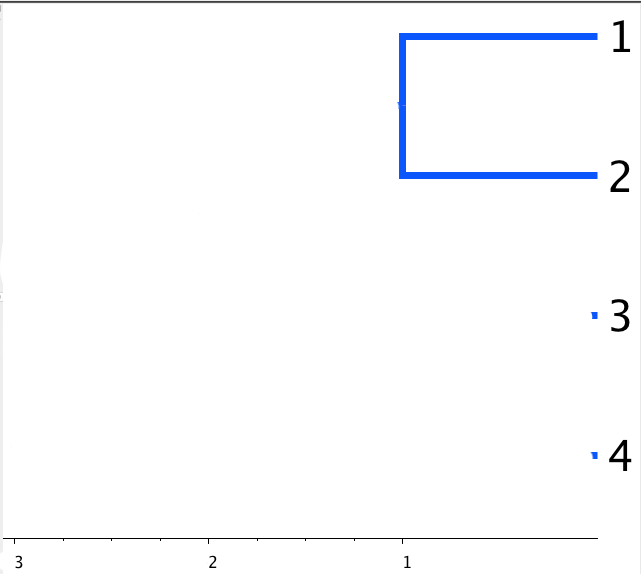
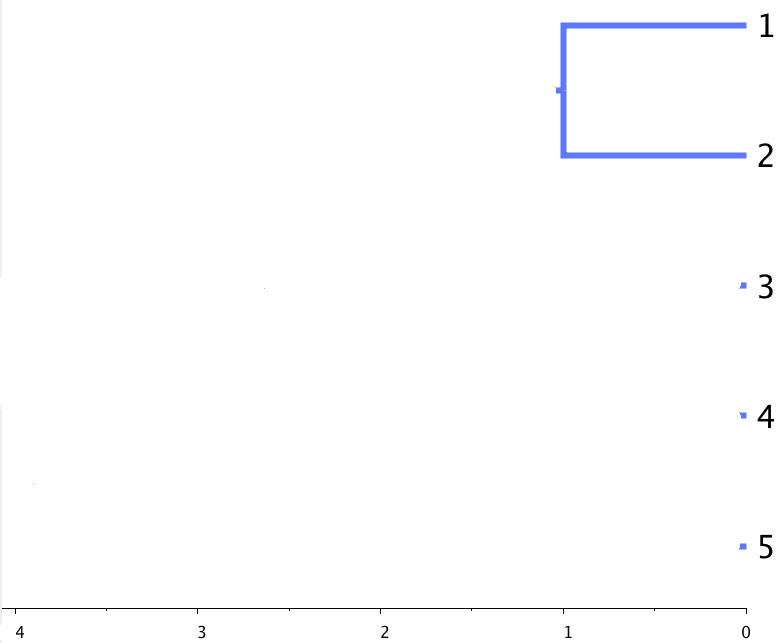
improve example Akaroa

diff --git a/Akaroa2021/index.html b/Akaroa2021/index.html
@@ -39,6 +39,110 @@
 				<p>Akaroa 2021</p>
 				</section>
 
+
+<section data-transition="none"><h4>Matrix => tree by single linke clustering</h4>
+<table><tr><td style="vertical-align: top;">
+<table>
+<tr style="border-bottom: 1px solid black;"><td></td><td class="label"> 1 </td><td class="label"> 2 </td><td class="label"> 3 </td><td class="label"> 4 </td><td class="label"> 5 </td></tr>
+<tr><td class="label">1</td><td> - </td><td> 2 </td><td> 7 </td><td> x </td><td> x </td></tr>
+<tr><td class="label">2</td><td> 2 </td><td> - </td><td> 6 </td><td> x </td><td> x </td></tr>
+<tr><td class="label">3</td><td> 5 </td><td> 6 </td><td> - </td><td> 8 </td><td> x </td></tr>
+<tr><td class="label">4</td><td> x </td><td> x </td><td> 8 </td><td> - </td><td> 2 </td></tr>
+<tr><td class="label">5</td><td> x </td><td> x </td><td> x </td><td> 2 </td><td> - </td></tr>
+</table>
+</td><td style="vertical-align: top;">
+<img src="figures/slink/x0.png" width="450"/>
+</td>	
+</table>
+<p style="font-size:20pt">Repeat: find minimum in matrix, connect associated clades (if not already connected)
+</section>
+
+<section data-transition="none"><h4>Matrix => tree by single linke clustering</h4>
+<table><tr><td style="vertical-align: top;">
+<table>
+<tr style="border-bottom: 1px solid black;"><td></td><td class="label"> 1 </td><td class="label"> 2 </td><td class="label"> 3 </td><td class="label"> 4 </td><td class="label"> 5 </td></tr>
+<tr><td class="label">1</td><td> - </td><td> <b>2</b> </td><td> 7 </td><td> x </td><td> x </td></tr>
+<tr><td class="label">2</td><td> . </td><td> - </td><td> 6 </td><td> x </td><td> x </td></tr>
+<tr><td class="label">3</td><td> . </td><td> . </td><td> - </td><td> 8 </td><td> x </td></tr>
+<tr><td class="label">4</td><td> . </td><td> . </td><td> . </td><td> - </td><td> 2 </td></tr>
+<tr><td class="label">5</td><td> . </td><td> . </td><td> . </td><td> . </td><td> - </td></tr>
+</table>
+</td><td style="vertical-align: top;">
+<img src="figures/slink/x1.png" width="450"/>
+</td>	
+</table>
+<p style="font-size:20pt">Repeat: find minimum in matrix, connect associated clades (if not already connected)
+</section>
+
+<section data-transition="none"><h4>Matrix => tree by single linke clustering</h4>
+<table><tr><td style="vertical-align: top;">
+<table>
+<tr style="border-bottom: 1px solid black;"><td></td><td class="label"> 1 </td><td class="label"> 2 </td><td class="label"> 3 </td><td class="label"> 4 </td><td class="label"> 5 </td></tr>
+<tr><td class="label">1</td><td> - </td><td> <s>2</s> </td><td> 7 </td><td> x </td><td> x </td></tr>
+<tr><td class="label">2</td><td> . </td><td> - </td><td> 6 </td><td> x </td><td> x </td></tr>
+<tr><td class="label">3</td><td> . </td><td> . </td><td> - </td><td> 8 </td><td> x </td></tr>
+<tr><td class="label">4</td><td> . </td><td> . </td><td> . </td><td> - </td><td> <b>2</b> </td></tr>
+<tr><td class="label">5</td><td> . </td><td> . </td><td> . </td><td> . </td><td> - </td></tr>
+</table>
+</td><td style="vertical-align: top;">
+<img src="figures/slink/x2.png" width="450"/>
+</td>	
+</table>
+<p style="font-size:20pt">Repeat: find minimum in matrix, connect associated clades (if not already connected)
+</section>
+
+<section data-transition="none"><h4>Matrix => tree by single linke clustering</h4>
+<table><tr><td style="vertical-align: top;">
+<table>
+<tr style="border-bottom: 1px solid black;"><td></td><td class="label"> 1 </td><td class="label"> 2 </td><td class="label"> 3 </td><td class="label"> 4 </td><td class="label"> 5 </td></tr>
+<tr><td class="label">1</td><td> - </td><td> <s>2</s> </td><td> 7 </td><td> x </td><td> x </td></tr>
+<tr><td class="label">2</td><td> . </td><td> - </td><td> <b>6</b> </td><td> x </td><td> x </td></tr>
+<tr><td class="label">3</td><td> . </td><td> . </td><td> - </td><td> 8 </td><td> x </td></tr>
+<tr><td class="label">4</td><td> . </td><td> . </td><td> . </td><td> - </td><td> <s>2</s> </td></tr>
+<tr><td class="label">5</td><td> . </td><td> . </td><td> . </td><td> . </td><td> - </td></tr>
+</table>
+</td><td style="vertical-align: top;">
+<img src="figures/slink/x3.png" width="450"/>
+</td>	
+</table>
+<p style="font-size:20pt">Repeat: find minimum in matrix, connect associated clades (if not already connected)
+</section>
+
+<section data-transition="none"><h4>Matrix => tree by single linke clustering</h4>
+<table><tr><td style="vertical-align: top;">
+<table>
+<tr style="border-bottom: 1px solid black;"><td></td><td class="label"> 1 </td><td class="label"> 2 </td><td class="label"> 3 </td><td class="label"> 4 </td><td class="label"> 5 </td></tr>
+<tr><td class="label">1</td><td> - </td><td> <s>2</s> </td><td> <b>7</b> </td><td> x </td><td> x </td></tr>
+<tr><td class="label">2</td><td> . </td><td> - </td><td> <s>6</s> </td><td> x </td><td> x </td></tr>
+<tr><td class="label">3</td><td> . </td><td> . </td><td> - </td><td> 8 </td><td> x </td></tr>
+<tr><td class="label">4</td><td> . </td><td> . </td><td> . </td><td> - </td><td> <s>2</s> </td></tr>
+<tr><td class="label">5</td><td> . </td><td> . </td><td> . </td><td> . </td><td> - </td></tr>
+</table>
+</td><td style="vertical-align: top;">
+<img src="figures/slink/x3.png" width="450"/>
+</td>	
+</table>
+<p style="font-size:20pt">Repeat: find minimum in matrix, connect associated clades (if not already connected)
+</section>
+
+<section data-transition="none"><h4>Matrix => tree by single linke clustering</h4>
+<table><tr><td style="vertical-align: top;">
+<table>
+<tr style="border-bottom: 1px solid black;"><td></td><td class="label"> 1 </td><td class="label"> 2 </td><td class="label"> 3 </td><td class="label"> 4 </td><td class="label"> 5 </td></tr>
+<tr><td class="label">1</td><td> - </td><td> <s>2</s> </td><td> <s>7</s> </td><td> x </td><td> x </td></tr>
+<tr><td class="label">2</td><td> . </td><td> - </td><td> <s>6</s> </td><td> x </td><td> x </td></tr>
+<tr><td class="label">3</td><td> . </td><td> . </td><td> - </td><td> <b>8</b> </td><td> x </td></tr>
+<tr><td class="label">4</td><td> . </td><td> . </td><td> . </td><td> - </td><td> <s>2</s> </td></tr>
+<tr><td class="label">5</td><td> . </td><td> . </td><td> . </td><td> . </td><td> - </td></tr>
+</table>
+</td><td style="vertical-align: top;">
+<img src="figures/slink/x4.png" width="450"/>
+</td>	
+</table>
+<p style="font-size:20pt">Repeat: find minimum in matrix, connect associated clades (if not already connected)
+</section>
+
+<!--
 <section data-transition="none"><h4>Matrix => tree by single linke clustering</h4>
 <table><tr><td style="vertical-align: top;">
 <table>
@@ -118,7 +222,7 @@
 </table>
 <p style="font-size:20pt">Repeat: find minimum in matrix, connect associated clades (if not already connected)
 </section>
-
+-->
 
 
 
